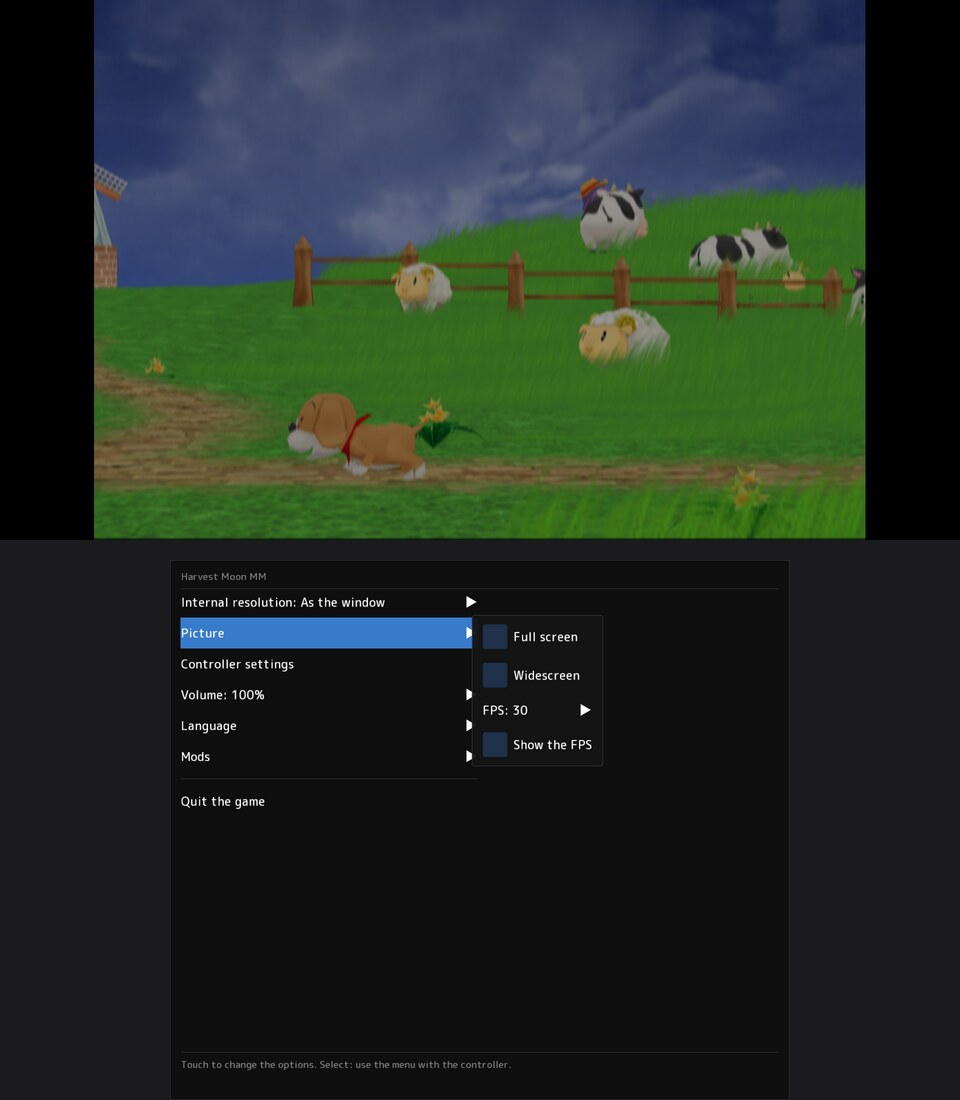
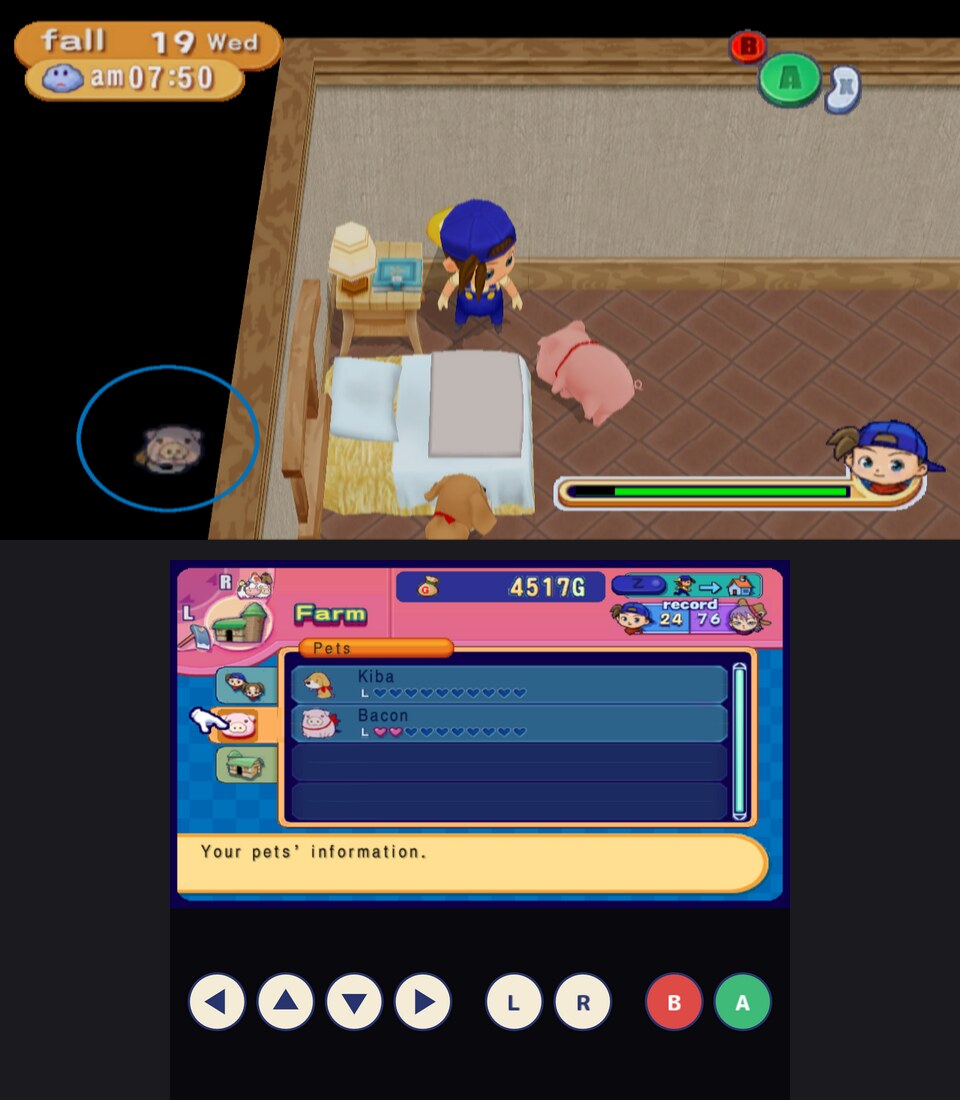
Docs: the game's own menu on the second screen of a two-screen handheld

diff --git a/docs/NATIVE_RUNTIME.md b/docs/NATIVE_RUNTIME.md
@@ -310,43 +310,55 @@ solo se puede probar en una pantalla táctil.
 
 ### La segunda pantalla (2026-11-20)
 
-En una consola con dos pantallas, como el AYN Thor, el menú de opciones va a
-la pantalla de abajo y el juego se queda solo en la de arriba, así que el menú
-nunca lo tapa (`runtime/src/graphics/second_screen.cpp`). Abajo el menú está
-siempre, con los mismos menús que la barra de F10 uno debajo del otro, en letra
-más grande, y se toca en cualquier momento mientras se juega. Select, F10 o el
-botón de opciones de los botones táctiles le pasan el control al menú de abajo:
-mientras lo tiene, el juego no recibe los botones, como con el menú de siempre,
-y arriba solo sale una nota. B o Select se lo regresan al juego.
+En una consola con dos pantallas, como el AYN Thor, el menú del propio juego
+(el que abre Y: pertenencias, granja, animales, el mapa y lo demás) va a la
+pantalla de abajo, y la de arriba se queda con el rancho como estaba al
+apretar Y, quieto (`runtime/src/graphics/second_screen.cpp`). Debajo del menú
+hay una fila de botones para el dedo: las cuatro direcciones del stick (los
+menús del juego se mueven con el stick), L y R para cambiar de página, y B y A.
+Juegan como el control 1, junto con el control de verdad. Al cerrar el menú,
+todo vuelve arriba y la pantalla de abajo se apaga. El menú de opciones (F10)
+se queda sobre el juego, como siempre.
 
 Cómo funciona:
 
+- **Cuándo está abierto el menú.** La palabra `0x80321D18` de la memoria del
+  juego vale 15 mientras su menú está en pantalla, en todas sus páginas, y 0
+  mientras el jugador camina. Se encontró comparando la memoria con el menú
+  abierto y cerrado. El juego pone la pantalla en negro antes de cambiarla a
+  15, así que la imagen de arriba se toma del cuadro en que se aprieta Y.
+- **La imagen.** El juego dibuja su menú en la misma imagen que el rancho, así
+  que lo que se mueve es la imagen entera. Un parche de aurora
+  (`patches/aurora/show-the-picture-elsewhere.patch`) llama al runtime con la
+  imagen de cada cuadro antes de mostrarla: con el menú cerrado se guarda una
+  copia; con el menú abierto la imagen se dibuja abajo y la ventana de arriba
+  recibe la copia guardada.
 - **La app** (`android/.../SecondScreen.java`) pone una `Presentation` de Android
-  en la otra pantalla: una ventana que pertenece a la actividad del juego, con
-  una `SurfaceView` cuya superficie le da al juego y cuyos dedos le pasa al
-  menú. Solo usa una pantalla que Android tenga como pantalla para
-  presentaciones, y solo si no es más grande que la del juego: un celular
-  conectado a una tele deja el menú en el celular. La ventana nunca toma el
+  en la otra pantalla, con una `SurfaceView` cuya superficie le da al juego y
+  cuyos dedos aprietan los botones. Solo usa una pantalla que Android tenga como
+  pantalla para presentaciones, y solo si no es más grande que la del juego: un
+  celular conectado a una tele no manda nada a la tele. La ventana nunca toma el
   foco, así que el control sigue jugando.
 - **El dibujo.** La segunda pantalla tiene su propia superficie de WebGPU sobre
-  el mismo dispositivo de aurora, y todo lo que se hace con ella (crearla,
-  dibujar, soltarla) se encola en el hilo de dibujo de aurora, así que el
-  dispositivo solo se usa desde un lugar. El menú se dibuja con un segundo
-  contexto de ImGui (su propio tamaño y su propio mouse) que comparte las
-  fuentes y el renderizador de ImGui de aurora. Se dibuja a lo más 30 veces por
-  segundo.
+  el dispositivo de aurora, y todo lo que se hace con ella pasa en el hilo de
+  dibujo de aurora. Los botones se dibujan con un segundo contexto de ImGui que
+  comparte las fuentes y el renderizador de aurora.
 - **La opción** «Sin segunda pantalla» (`secondScreenOff`; en Imagen del menú F10
-  en Android, en las Opciones del launcher y en RecompLauncher) deja el menú
-  sobre el juego, como antes.
+  en Android, en las Opciones del launcher y en RecompLauncher) lo deja todo en
+  la pantalla de arriba, como antes.
+
+Tocar directamente las cosas del menú (un objeto, una pestaña) todavía no se
+puede: el juego no sabe de pantallas táctiles, y para eso hay que saber, página
+por página, dónde está cada cosa. Por ahora el dedo usa los botones.
 
 Sin la consola se prueba en la computadora: `HMMM_SECOND_SCREEN=1240x1080` abre
 una segunda ventana que hace de pantalla de abajo, con el mouse como dedo. Así
-se probó en Linux, con las ventanas del tamaño de las pantallas del Thor
-(1920x1080 y 1240x1080): el menú abre sus submenús y cambia las opciones al
-tocarlo, y Select o F10 le pasan el control. En un Thor de verdad todavía no se
-ha probado.
+se probó en Linux, con una partida: Y abre el menú abajo y arriba se queda el
+rancho; R pasa a la página de la granja, la flecha abajo mueve la mano y B
+cierra el menú, todo con el mouse en los botones. En un Thor de verdad todavía
+no se ha probado.
 
-![El juego arriba y el menú de opciones abajo, con Imagen abierto, a los tamaños de las pantallas del AYN Thor](images/second-screen.jpg)
+![El rancho arriba y el menú del juego abajo, en la página de la granja, con los botones para el dedo](images/second-screen.jpg)
 
 ### Qué sigue
 
@@ -661,42 +673,55 @@ on a touch screen.
 
 ### The second screen (2026-11-20)
 
-On a handheld with two screens, such as the AYN Thor, the options menu goes to
-the lower screen and the game keeps the upper one to itself, so the menu never
-covers it (`runtime/src/graphics/second_screen.cpp`). The menu is always there
-below, with the same menus as the F10 bar one under the other, in bigger
-letters, and it can be touched at any time while playing. Select, F10 or the
-touch buttons' options button give the lower menu the controller: while it has
-it, the game gets no buttons, as with the usual menu, and only a note shows
-above. B or Select give it back to the game.
+On a handheld with two screens, such as the AYN Thor, the game's own menu (the
+one Y opens: belongings, farm, animals, the map and the rest) goes to the lower
+screen, and the upper one keeps the farm as it was when Y was pressed, still
+(`runtime/src/graphics/second_screen.cpp`). Under the menu there is a row of
+buttons for the finger: the stick's four ways (the game's menus move with the
+stick), L and R to change the page, and B and A. They play as controller 1,
+together with the real controller. When the menu closes, everything goes back
+above and the lower screen goes dark. The options menu (F10) stays over the
+game, as always.
 
 How it works:
 
+- **When the menu is open.** The word at `0x80321D18` in the game's memory is
+  15 while its menu is on the screen, on all its pages, and 0 while the player
+  walks. It was found by comparing the memory with the menu open and closed.
+  The game turns the screen black before it turns to 15, so the picture above
+  is taken from the frame where Y is pressed.
+- **The picture.** The game draws its menu into the same picture as the farm,
+  so what moves is the whole picture. A patch to aurora
+  (`patches/aurora/show-the-picture-elsewhere.patch`) calls the runtime with each
+  frame's picture before it is shown: with the menu closed a copy is kept; with
+  the menu open the picture is drawn below and the window above gets the kept
+  copy.
 - **The app** (`android/.../SecondScreen.java`) puts an Android `Presentation` on
-  the other screen: a window that belongs to the game's activity, with a
-  `SurfaceView` whose surface it gives to the game and whose fingers it passes
-  to the menu. It only uses a display that Android lists for presentations, and
-  only when it is not bigger than the game's: a phone connected to a television
-  keeps the menu on the phone. The window never takes the focus, so the
-  controller keeps playing.
+  the other screen, with a `SurfaceView` whose surface it gives to the game and
+  whose fingers press the buttons. It only uses a display that Android lists for
+  presentations, and only when it is not bigger than the game's: a phone
+  connected to a television sends nothing to the television. The window never
+  takes the focus, so the controller keeps playing.
 - **The drawing.** The second screen has its own WebGPU surface on aurora's
-  device, and everything done with it (making it, drawing, letting it go) is
-  queued on aurora's render thread, so the device is only used from one place.
-  The menu is drawn with a second ImGui context (its own size and its own
-  mouse) that shares aurora's ImGui fonts and renderer. It is drawn at most 30
-  times a second.
+  device, and everything done with it happens on aurora's render thread. The
+  buttons are drawn with a second ImGui context that shares aurora's fonts and
+  renderer.
 - **The option** "No second screen" (`secondScreenOff`; in the F10 menu's Picture
-  on Android, in the launcher's Options and in RecompLauncher) keeps the menu
-  over the game, as before.
+  on Android, in the launcher's Options and in RecompLauncher) keeps everything
+  on the upper screen, as before.
+
+Touching the menu's things directly (an item, a tab) cannot be done yet: the
+game knows nothing of touch screens, and for that one has to know, page by
+page, where each thing is. For now the finger uses the buttons.
 
 Without the handheld it is tried on a computer: `HMMM_SECOND_SCREEN=1240x1080`
 opens a second window that stands for the lower screen, with the mouse as the
-finger. That is how it was tried on Linux, with the windows at the sizes of the
-Thor's screens (1920x1080 and 1240x1080): the menu opens its submenus and
-changes the options when touched, and Select or F10 give it the controller. It
-has not been tried on a real Thor yet.
+finger. That is how it was tried on Linux, with a save: Y opens the menu below
+and the farm stays above; R goes to the farm's page, the down arrow moves the
+hand and B closes the menu, all with the mouse on the buttons. It has not been
+tried on a real Thor yet.
 
-![The game above and the options menu below, with Picture open, at the sizes of the AYN Thor's screens](images/second-screen.jpg)
+![The farm above and the game's menu below, on the farm's page, with the buttons for the finger](images/second-screen.jpg)
 
 ### What comes next
 

diff --git a/README.es.md b/README.es.md
@@ -65,7 +65,7 @@ la app te pide el disco la primera vez que la abres.
 | Idioma | Uno para el juego y el launcher: inglés, español, francés, alemán o italiano, los que trae el disco. El launcher y el menú F10 solo están en español e inglés. En el juego cambian los diálogos. Los menús y los nombres de los objetos siguen en inglés. |
 | Turbo | No es una opción: mantén Tab en el juego (o TURBO en la pantalla táctil) y va al 300%. |
 | Botones táctiles | Solo en Android: **Sin botones táctiles con control** los quita mientras haya un control conectado (vuelven si se desconecta), y **Sin botón TURBO táctil** quita solo TURBO. |
-| Segunda pantalla | Solo en Android: **Sin segunda pantalla** deja el menú sobre el juego en consolas con dos pantallas, como el AYN Thor (ve abajo). |
+| Segunda pantalla | Solo en Android: **Sin segunda pantalla** deja el menú del juego (Y) en la pantalla de arriba en consolas con dos pantallas, como el AYN Thor (ve abajo). |
 | Pantalla completa | También con Alt+Enter mientras juegas. |
 | Contador de cuadros y volumen | Los cuadros por segundo sobre el juego, y el volumen de 0 a 100%. |
 
@@ -97,14 +97,16 @@ demás la próxima vez que se abre el juego (el menú dice cuál es cuál). Mien
 el menú está abierto, el juego no recibe el control.
 
 **Con dos pantallas.** En una consola Android con dos pantallas, como el AYN
-Thor, el menú va a la pantalla de abajo y el juego se queda solo en la de
-arriba. Abajo el menú está siempre y se toca en cualquier momento; Select (o F10)
-le pasa el control, y B o Select lo regresan al juego. La opción **Sin segunda
-pantalla** lo deja sobre el juego, como en un celular. Todavía no se ha probado
-en un Thor de verdad, solo simulando la segunda pantalla en la computadora
+Thor, el menú del propio juego (el que abre Y: pertenencias, granja, animales,
+el mapa) va a la pantalla de abajo, y arriba se queda el rancho como estaba.
+Debajo del menú hay botones para manejarlo con el dedo (las cuatro direcciones,
+L, R, B y A), y el control también funciona. Al cerrarlo, todo vuelve arriba. La
+opción **Sin segunda pantalla** lo deja todo arriba, como en un celular.
+Todavía no se ha probado en un Thor de verdad, solo simulando la segunda
+pantalla en la computadora
 ([docs/NATIVE_RUNTIME.md](docs/NATIVE_RUNTIME.md#la-segunda-pantalla-2026-11-20)).
 
-<p align="center"><img src="docs/images/second-screen.jpg" width="420" alt="El juego arriba y el menú de opciones abajo, a los tamaños de las pantallas del AYN Thor"></p>
+<p align="center"><img src="docs/images/second-screen.jpg" width="420" alt="El rancho arriba y el menú del juego abajo, con los botones para el dedo, a los tamaños de las pantallas del AYN Thor"></p>
 
 ### Mods
 

diff --git a/README.md b/README.md
@@ -65,7 +65,7 @@ the disc the first time you open it.
 | Language | One for the game and the launcher: English, Spanish, French, German or Italian, the ones the disc has. The launcher and the F10 menu are only in Spanish and English. In the game the dialogues change. The menus and the names of the items stay in English. |
 | Turbo | Not an option: hold Tab in the game (or TURBO on the touch screen) and it goes at 300%. |
 | Touch buttons | Only on Android: **No touch buttons with a controller** takes them away while a controller is connected (they come back if it is disconnected), and **No TURBO touch button** takes away only TURBO. |
-| Second screen | Only on Android: **No second screen** keeps the menu over the game on handhelds with two screens, such as the AYN Thor (see below). |
+| Second screen | Only on Android: **No second screen** keeps the game's menu (Y) on the upper screen on handhelds with two screens, such as the AYN Thor (see below). |
 | Full screen | Also with Alt+Enter while playing. |
 | Frame counter and volume | The frames per second over the game, and the volume from 0 to 100%. |
 
@@ -97,14 +97,15 @@ opened (the menu says which is which). While the menu is open the game does
 not get the controller.
 
 **With two screens.** On an Android handheld with two screens, such as the AYN
-Thor, the menu goes to the lower screen and the game keeps the upper one to
-itself. The menu is always there below and can be touched at any time; Select
-(or F10) gives it the controller, and B or Select give it back to the game. The
-option **No second screen** keeps it over the game, as on a phone. It has not
+Thor, the game's own menu (the one Y opens: belongings, farm, animals, the map)
+goes to the lower screen, and the farm stays above as it was. Under the menu
+there are buttons to play it with the finger (the four ways, L, R, B and A),
+and the controller works too. When it closes, everything goes back above. The
+option **No second screen** keeps everything above, as on a phone. It has not
 been tried on a real Thor yet, only with the second screen simulated on a
 computer ([docs/NATIVE_RUNTIME.md](docs/NATIVE_RUNTIME.md#the-second-screen-2026-11-20)).
 
-<p align="center"><img src="docs/images/second-screen.jpg" width="420" alt="The game above and the options menu below, at the sizes of the AYN Thor's screens"></p>
+<p align="center"><img src="docs/images/second-screen.jpg" width="420" alt="The farm above and the game's menu below, with the buttons for the finger, at the sizes of the AYN Thor's screens"></p>
 
 ### Mods
 
